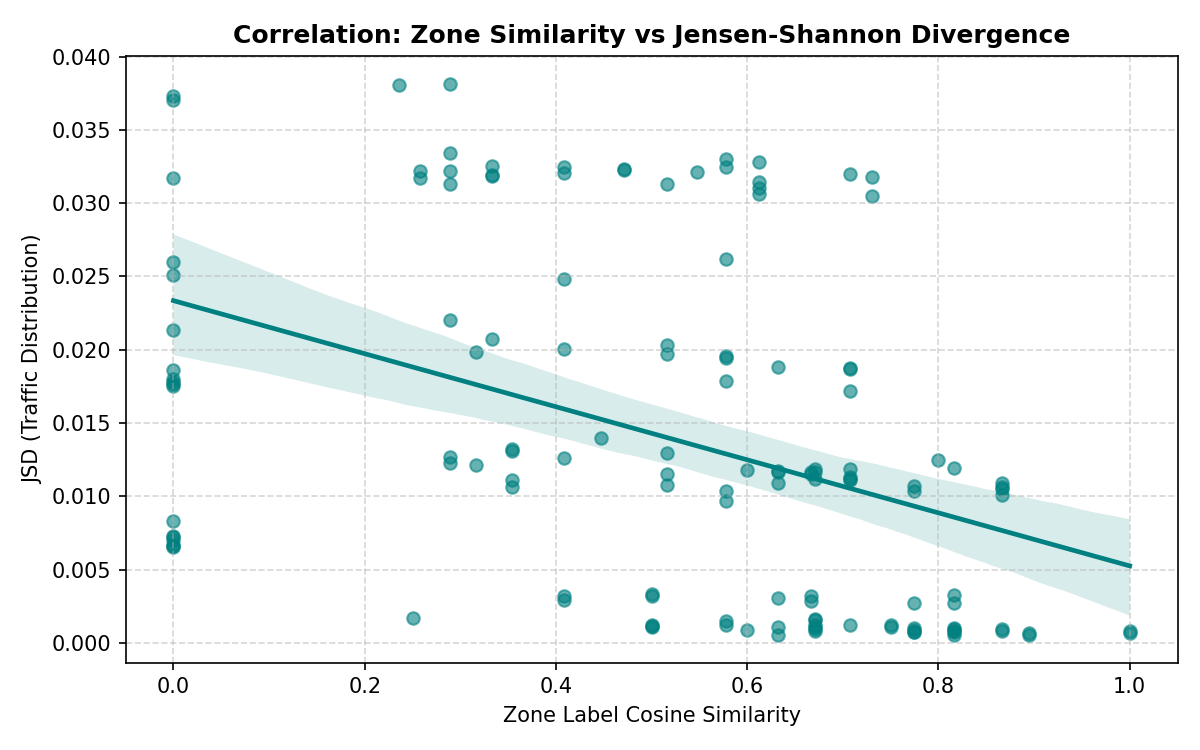
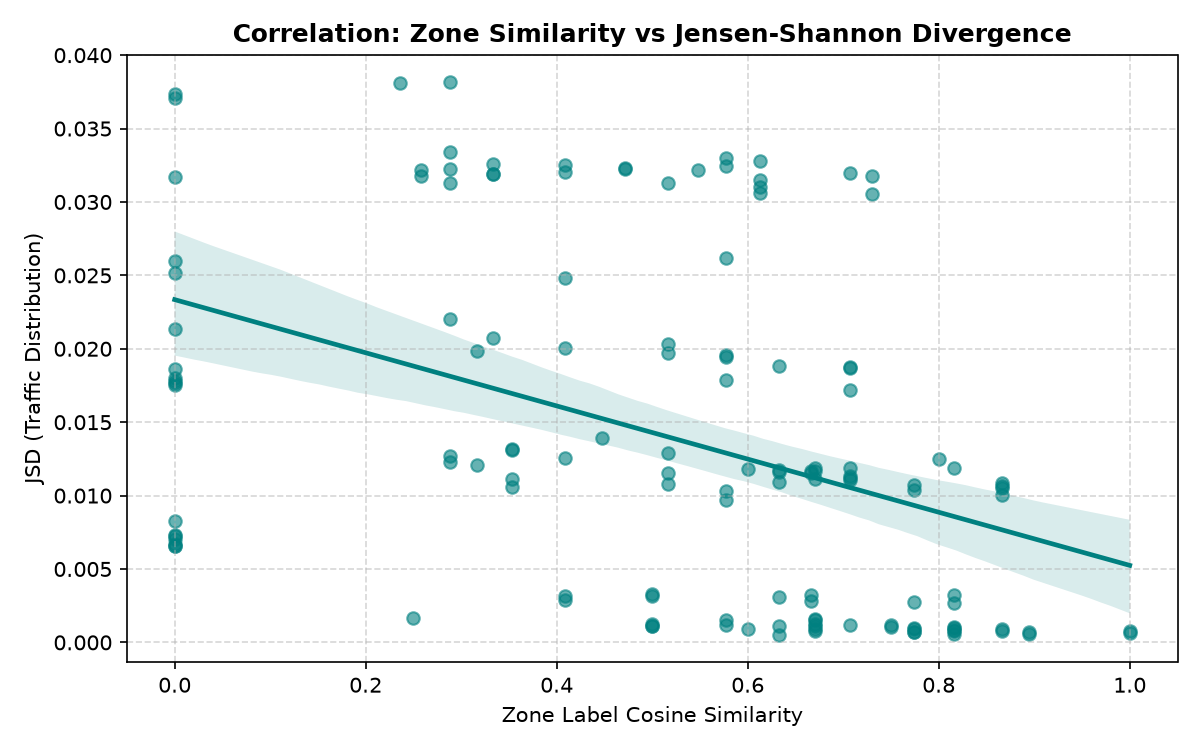
latest update

diff --git a/models/time_zone_aware_gnn.py b/models/time_zone_aware_gnn.py
@@ -114,18 +114,23 @@ class TimeZoneEmbedding(nn.Module):
     """
     Encode multi-hot zone vector Z[v] ∈ {0,1}^K → dense z̃[v] ∈ R^d_z
     Dùng nn.Embedding cho time (discrete).
+    Dùng cơ chế gating: z̃ = sigmoid(W_gate * t_emb) * MLP(Z)
+    để tránh representation collapse.
     """
 
     def __init__(self, num_zones: int, embed_dim: int, num_time_labels: int):
         super().__init__()
-        self.time_emb = nn.Embedding(num_time_labels, embed_dim)
-        fused_in = num_zones + embed_dim
-        self.net = nn.Sequential(
-            nn.Linear(fused_in, embed_dim * 2),
+        self.zone_mlp = nn.Sequential(
+            nn.Linear(num_zones, embed_dim * 2),
             nn.LayerNorm(embed_dim * 2),
             nn.ReLU(),
             nn.Linear(embed_dim * 2, embed_dim),
             nn.LayerNorm(embed_dim),
+        )
+        self.time_emb = nn.Embedding(num_time_labels, embed_dim)
+        self.gate_proj = nn.Sequential(
+            nn.Linear(embed_dim, embed_dim),
+            nn.Sigmoid()
         )
 
     def forward(self, Z: torch.Tensor, time_idx: torch.Tensor) -> torch.Tensor:
@@ -134,12 +139,10 @@ class TimeZoneEmbedding(nn.Module):
         time_idx: (B,)
         → (B, N, d_z)
         """
-        B = time_idx.size(0)
-        N = Z.size(0)
-        Z_batch = Z.unsqueeze(0).expand(B, N, -1)
-        t_emb = self.time_emb(time_idx).unsqueeze(1).expand(B, N, -1)
-        fused = torch.cat([Z_batch, t_emb], dim=-1)
-        return self.net(fused)
+        z_static = self.zone_mlp(Z)
+        t_emb = self.time_emb(time_idx)
+        gate = self.gate_proj(t_emb)
+        return gate.unsqueeze(1) * z_static.unsqueeze(0)
 
 
 # ══════════════════════════════════════════════
@@ -150,9 +153,8 @@ class SinusoidalZoneEmbedding(nn.Module):
     """
     Giống TimeZoneEmbedding nhưng dùng SeasonalTimeEncoder
     thay vì nn.Embedding → encode thời gian liên tục hơn.
-
-    Kỳ vọng: cosine similarity giữa các zone khác nhau thấp hơn
-    so với TimeZoneEmbedding vì time encoding phân biệt tốt hơn.
+    Dùng cơ chế gating: z̃ = sigmoid(W_gate * t_enc) * MLP(Z)
+    để tránh representation collapse.
     """
 
     def __init__(
@@ -163,14 +165,17 @@ class SinusoidalZoneEmbedding(nn.Module):
         d_model: int = 32,
     ):
         super().__init__()
-        self.time_encoder = SeasonalTimeEncoder(embed_dim, d_model)
-        fused_in = num_zones + embed_dim
-        self.net = nn.Sequential(
-            nn.Linear(fused_in, embed_dim * 2),
+        self.zone_mlp = nn.Sequential(
+            nn.Linear(num_zones, embed_dim * 2),
             nn.LayerNorm(embed_dim * 2),
-            nn.GELU(),  # GELU thay ReLU — smooth hơn
+            nn.GELU(),
             nn.Linear(embed_dim * 2, embed_dim),
             nn.LayerNorm(embed_dim),
+        )
+        self.time_encoder = SeasonalTimeEncoder(embed_dim, d_model)
+        self.gate_proj = nn.Sequential(
+            nn.Linear(embed_dim, embed_dim),
+            nn.Sigmoid()
         )
 
     def forward(self, Z: torch.Tensor, time_idx: torch.Tensor) -> torch.Tensor:
@@ -179,13 +184,10 @@ class SinusoidalZoneEmbedding(nn.Module):
         time_idx: (B,)
         → (B, N, d_z)
         """
-        B = time_idx.size(0)
-        N = Z.size(0)
-        Z_batch = Z.unsqueeze(0).expand(B, N, -1)  # (B, N, K)
-        t_enc = self.time_encoder(time_idx)  # (B, embed_dim)
-        t_batch = t_enc.unsqueeze(1).expand(B, N, -1)  # (B, N, embed_dim)
-        fused = torch.cat([Z_batch, t_batch], dim=-1)  # (B, N, K+embed_dim)
-        return self.net(fused)  # (B, N, embed_dim)
+        z_static = self.zone_mlp(Z)
+        t_enc = self.time_encoder(time_idx)
+        gate = self.gate_proj(t_enc)
+        return gate.unsqueeze(1) * z_static.unsqueeze(0)
 
 
 # ══════════════════════════════════════════════
@@ -333,11 +335,18 @@ class TimeZoneAwareAHGNN(nn.Module):
 
     def forward(self, X, Z, time_idx, A_static=None):
         z_embed = self.zone_emb(Z, time_idx)  # (B, N, d_z)
-        A = self.adj_module(z_embed, time_idx, A_static)
+        
+        use_zone_adj = getattr(self, "use_zone_adj", True)
+        use_zone_weight = getattr(self, "use_zone_weight", True)
+
+        z_embed_adj = z_embed if use_zone_adj else (z_embed * 0.0)
+        z_embed_conv = z_embed if use_zone_weight else (z_embed * 0.0)
+
+        A = self.adj_module(z_embed_adj, time_idx, A_static)
         E = self.adj_module.E
         H = X
         for conv in self.conv_layers:
-            H = conv(H, A, E, z_embed)
+            H = conv(H, A, E, z_embed_conv)
         return self.fc(H)  # (B, N, T_out)
 
 
@@ -406,11 +415,18 @@ class SinusoidalZoneAwareAHGNN(nn.Module):
 
     def forward(self, X, Z, time_idx, A_static=None):
         z_embed = self.zone_emb(Z, time_idx)  # (B, N, d_z)
-        A = self.adj_module(z_embed, time_idx, A_static)
+        
+        use_zone_adj = getattr(self, "use_zone_adj", True)
+        use_zone_weight = getattr(self, "use_zone_weight", True)
+
+        z_embed_adj = z_embed if use_zone_adj else (z_embed * 0.0)
+        z_embed_conv = z_embed if use_zone_weight else (z_embed * 0.0)
+
+        A = self.adj_module(z_embed_adj, time_idx, A_static)
         E = self.adj_module.E
         H = X
         for conv in self.conv_layers:
-            H = conv(H, A, E, z_embed)
+            H = conv(H, A, E, z_embed_conv)
         return self.fc(H)  # (B, N, T_out)
 
 

diff --git a/scripts/train.py b/scripts/train.py
@@ -167,7 +167,7 @@ def build_model(
 
     # ── Tân: Time-conditioned discrete embedding ──
     if variant_name == "zone_full_tc":
-        return TimeZoneAwareAHGNN(
+        model = TimeZoneAwareAHGNN(
             num_nodes=N,
             num_zones=K,
             in_channels=in_ch,
@@ -178,10 +178,13 @@ def build_model(
             num_time_labels=4,
             num_layers=2,
         )
+        model.use_zone_weight = use_zone_weight
+        model.use_zone_adj = use_zone_adj
+        return model
 
     # ── Bảo: Sinusoidal time encoder ──
     if variant_name == "zone_full_sinc":
-        return SinusoidalZoneAwareAHGNN(
+        model = SinusoidalZoneAwareAHGNN(
             num_nodes=N,
             num_zones=K,
             in_channels=in_ch,
@@ -193,6 +196,9 @@ def build_model(
             num_layers=2,
             d_model=32,
         )
+        model.use_zone_weight = use_zone_weight
+        model.use_zone_adj = use_zone_adj
+        return model
 
     # ── Zone-Aware ablation variants (zone_concat, zone_weight, zone_full) ──
     model = ZoneAwareAHGNN(
@@ -218,7 +224,20 @@ def build_model(
 # ──────────────────────────────────────────────
 # MAIN
 # ──────────────────────────────────────────────
+import random
+
+def set_seed(seed=42):
+    random.seed(seed)
+    np.random.seed(seed)
+    torch.manual_seed(seed)
+    if torch.cuda.is_available():
+        torch.cuda.manual_seed(seed)
+        torch.cuda.manual_seed_all(seed)
+        torch.backends.cudnn.deterministic = True
+        torch.backends.cudnn.benchmark = False
+
 def run_experiment(variant_name, meta, dataset_dict, ablation_cfg):
+    set_seed(42)
     use_zone_emb, use_zone_weight, use_zone_adj = ablation_cfg
 
     print(f"\n{'='*55}")

diff --git a/models/zone_aware_gnn.py b/models/zone_aware_gnn.py
@@ -233,8 +233,15 @@ class ZoneAwareAHGNN(nn.Module):
         # 1. Zone embedding (static per node)
         z_embed = self.zone_emb(Z)                     # (N, d_z)
 
+        # Check configuration flags (default to True)
+        use_zone_adj = getattr(self, "use_zone_adj", True)
+        use_zone_weight = getattr(self, "use_zone_weight", True)
+
+        z_embed_adj = z_embed if use_zone_adj else (z_embed * 0.0)
+        z_embed_conv = z_embed if use_zone_weight else (z_embed * 0.0)
+
         # 2. Dynamic zone-aware adjacency
-        A = self.adj_module(z_embed, time_idx, A_static)  # (B, N, N)
+        A = self.adj_module(z_embed_adj, time_idx, A_static)  # (B, N, N)
 
         # 3. Get node embedding from adj_module
         E = self.adj_module.E                          # (N, d_e)
@@ -242,7 +249,7 @@ class ZoneAwareAHGNN(nn.Module):
         # 4. Zone-modulated graph convolution
         H = X
         for conv in self.conv_layers:
-            H = conv(H, A, E, z_embed)                 # (B, N, hidden)
+            H = conv(H, A, E, z_embed_conv)                 # (B, N, hidden)
 
         # 5. Output prediction
         out = self.fc(H)                               # (B, N, T_out)

diff --git a/week2_plan.md b/week2_plan.md
@@ -1,0 +1,178 @@
+# Kế Hoạch Tuần 2 — Team 4 Người (21/07 – 27/07/2026)
+
+---
+
+## Tổng kết Tuần 1: Những gì đã có
+
+| Hạng mục | File/Kết quả | Trạng thái |
+|---|---|---|
+| Dữ liệu TomTom | `tomtom_traffic.csv` (~24 MB, ≈7 ngày) | ✅ |
+| Nhãn vùng OSM | `zone_labels.csv` (17 nút × 8 zone types) | ✅ |
+| Graph Dataset | `graph_dataset.pt` (658 mẫu, F=4 features) | ✅ |
+| 3 Baselines | `models/baselines.py` (LSTM, GCN-GRU, STGCN) — code xong | ✅ |
+| Ablation Study | 4 variants đã train, zone_full MAE=0.0795 | ✅ |
+| EDA / JSD | Heatmap + Correlation Plot đã sinh | ✅ |
+| Collect zones generic | `scripts/collect_zones.py` — tổng quát cho mọi thành phố | ✅ |
+
+**Kết quả ablation đã có:**
+
+| Variant | MAE | RMSE | MAPE% |
+|---|---|---|---|
+| baseline_ahgnn | 0.2102 | 0.2955 | 15.83 |
+| zone_concat | 0.0963 | 0.1536 | 7.11 |
+| zone_weight | 0.1057 | 0.1613 | 7.84 |
+| **zone_full (Proposed)** | **0.0795** | **0.1419** | **6.14** |
+
+---
+
+## Mục tiêu Tuần 2
+
+> **Tuần 2 = Experiments hoàn chỉnh + Figures cho paper + Bắt đầu viết**
+
+1. Train và đánh giá 3 baselines trên dữ liệu thực → bảng so sánh hoàn chỉnh
+2. Triển khai cải tiến Time-Conditioned Zone Embedding (đóng góp khoa học #2)
+3. Sinh toàn bộ Figures chất lượng xuất bản cho paper
+4. Viết Sections 1 & 2 (Introduction + Related Work)
+
+---
+
+## Người A (Lead — Model & Training)
+
+### Nhiệm vụ A.1: Chạy 3 Baselines trên dữ liệu thực
+- Chạy `python scripts/train.py --baselines` → sinh `baseline_results.csv`
+- Xác nhận kết quả hợp lệ (không NaN/Inf)
+- So sánh MAE của 3 baselines vs `zone_full` → xác nhận proposed model tốt hơn tất cả
+
+### Nhiệm vụ A.2: Triển khai Time-Conditioned Zone Embedding
+- Sửa `ZoneEmbedding` trong `models/zone_aware_gnn.py` thành `TimeConditionedZoneEmbedding`
+- Công thức: $\tilde{z}^{(v,t)} = g_t \odot \text{MLP}(z^{(v)})$ — thêm cổng thời gian
+- Cập nhật pipeline: `ZoneAwareAdjacency` và `ZoneModulatedGraphConv` phải nhận z_embed kích thước `(B, N, d_z)` thay vì `(N, d_z)`
+- Tạo variant mới `zone_full_tc` trong `train.py`
+- Train và so sánh: `zone_full_tc` vs `zone_full` → kỳ vọng MAE giảm thêm
+
+### Nhiệm vụ A.3: Hyperparameter Tuning (nếu còn thời gian)
+- Grid search nhỏ trên các tham số: `zone_embed_dim = [8, 16, 32]`, `alpha = [0.3, 0.5, 0.7]`
+- Chọn best config dựa trên validation MAE
+
+### Output mong muốn
+- [ ] `data/results/baseline_results.csv` — 3 dòng kết quả
+- [ ] `models/zone_aware_gnn.py` — class `TimeConditionedZoneEmbedding` mới
+- [ ] `data/results/all_results.csv` — bảng tổng hợp tất cả models (baselines + ablation + TC variant)
+- [ ] Model checkpoint `zone_full_tc_best.pt`
+
+---
+
+## Người B (Deep Learning Engineer)
+
+### Nhiệm vụ B.1: Hỗ trợ A triển khai Time-Conditioned Zone Embedding
+- Review code của A, test forward pass với dummy input
+- Đảm bảo backward pass không bị gradient explosion
+- Test interface tương thích: `zone_full_tc` phải chạy được với cùng `train.py`
+
+### Nhiệm vụ B.2: Triển khai Sinusoidal Time Encoding (cải tiến #2)
+- Thay thế 4 nhãn thời gian rời rạc bằng mã hóa Sin/Cos liên tục
+- Cần sửa `build_graph.py` để lưu thêm trường `hour` và `day_of_week` (float) thay vì chỉ 4 nhãn
+- Tạo class `SinusoidalTimeEncoder` → test forward pass
+- Tạo variant `zone_full_sine` trong `train.py`
+
+### Nhiệm vụ B.3: Viết Unit Tests cho tất cả models
+- Tạo `tests/test_models.py` kiểm tra:
+  - Forward pass shape cho tất cả 7 variants (3 baselines + 4 ablation)
+  - Gradient flow (backward pass không NaN)
+  - Parameter count nhất quán
+
+### Output mong muốn
+- [ ] Class `SinusoidalTimeEncoder` trong `models/zone_aware_gnn.py`
+- [ ] `build_graph.py` cập nhật — lưu thêm `hour`, `day_of_week`
+- [ ] `tests/test_models.py` — unit tests cho tất cả variants
+- [ ] (Bonus) Kết quả `zone_full_sine` nếu kịp train
+
+---
+
+## Người C (Data & GIS Engineer)
+
+### Nhiệm vụ C.1: Zone-Stratified Error Analysis (QUAN TRỌNG NHẤT)
+- Tạo `scripts/zone_stratified_analysis.py`
+- Load kết quả từ các model đã train (best.pt), chạy evaluate trên test set
+- Tính MAE riêng cho từng nhóm TAZ theo số lượng zone (1, 2, 3, 4, 5, 6)
+- **Sinh Figure 3 — Main Result:** Grouped Bar Chart (Baseline vs Proposed, theo zone_count)
+- Kỳ vọng: improvement tăng dần khi zone_count tăng → chứng minh zone-awareness hiệu quả
+
+### Nhiệm vụ C.2: Nâng cấp tất cả Figures lên chất lượng xuất bản
+- **Figure 1a** — JSD Heatmap: font serif, DPI≥300, rút gọn tên TAZ, thêm colorbar label
+- **Figure 1b** — Correlation JSD vs Zone Similarity: thêm Pearson r, p-value, phân nhóm màu
+- **Figure 2** — Zone Entropy Map: bản đồ HCM tô màu theo entropy ($H = -\sum p_k \log_2 p_k$)
+- **Figure 3** — Zone-Stratified MAE (Main Result): grouped bar chart
+- Tất cả lưu cả `.png` (draft) và `.pdf` (xuất bản) trong `data/results/`
+
+### Nhiệm vụ C.3: Viết Dataset Description
+- Viết mô tả chi tiết 3 nguồn dữ liệu (OSRM, TomTom, OSM) cho Section 5.1 của paper
+- Bao gồm: số lượng mẫu, khoảng thời gian thu thập, tần suất, 17 node names, 8 zone types
+- Giao cho Người D tích hợp vào paper
+
+### Output mong muốn
+- [ ] `scripts/zone_stratified_analysis.py`
+- [ ] `data/results/fig1a_jsd_heatmap.pdf`
+- [ ] `data/results/fig1b_jsd_correlation.pdf`
+- [ ] `data/results/fig2_zone_entropy_map.pdf`
+- [ ] `data/results/fig3_zone_stratified.pdf` ← **Main Result**
+- [ ] File text mô tả dataset (giao cho D)
+
+---
+
+## Người D (Paper Writing & Literature)
+
+### Nhiệm vụ D.1: Viết Section 1 — Introduction (1 trang)
+- **Motivation:** Giao thông đô thị có tính Non-IID — phân phối lưu lượng tại các vùng khác nhau rất khác nhau do thành phần chức năng đất đai
+- **Gap:** Các mô hình GNN hiện tại (DCRNN, STGCN, Graph WaveNet) chỉ dùng ma trận kề địa lý → bỏ qua ngữ nghĩa vùng chức năng
+- **Contribution (3 gạch đầu dòng):**
+  1. Đề xuất Zone-Aware AH-GNN với zone embedding và zone-modulated convolution
+  2. Chứng minh thực nghiệm rằng zone composition giải thích được tính Non-IID
+  3. Đánh giá trên dữ liệu thực HCM với 17 TAZ và 8 loại vùng chức năng
+
+### Nhiệm vụ D.2: Viết Section 2 — Related Work (1.5 trang)
+- **2.1 Traffic Flow Prediction:** DCRNN, STGCN, Graph WaveNet, ASTGNN, PDFormer
+- **2.2 Heterogeneous GNN:** HAN, HGT — kết nối với việc dùng zone heterogeneity
+- **2.3 Urban Zone / Land Use in Traffic:** Urban2Vec, STDN — gap là chưa ai dùng multi-label zone trong GNN adjacency
+
+### Nhiệm vụ D.3: Đọc và tóm tắt 5-7 papers cần cite
+Danh sách đề xuất:
+1. **DCRNN** (Li et al., 2018) — baseline diffusion conv
+2. **STGCN** (Yu et al., 2018) — baseline sandwich architecture
+3. **Graph WaveNet** (Wu et al., 2019) — adaptive adjacency (so sánh trực tiếp)
+4. **ASTGNN** (Guo et al., 2021) — attention-based
+5. **HAN** (Wang et al., 2019) — heterogeneous attention network
+6. **Urban2Vec** (Wang et al., 2020) — zone embedding (liên quan trực tiếp)
+7. **PDFormer** (Jiang et al., 2023) — state-of-the-art gần nhất
+
+### Output mong muốn
+- [ ] Section 1 draft trong `paper/draft_vi.tex` hoặc file riêng
+- [ ] Section 2 draft 
+- [ ] Bảng tóm tắt related work (model, year, adjacency type, zone-aware?)
+- [ ] Danh sách references BibTeX
+
+---
+
+## Lịch trình theo ngày
+
+| Ngày | Người A | Người B | Người C | Người D |
+|---|---|---|---|---|
+| **T2 21/07** | Chạy 3 baselines | Review baselines code | Zone-Stratified Analysis | Đọc 3 papers đầu |
+| **T3 22/07** | Phân tích kết quả baseline | Thiết kế Sinusoidal Enc | Cải thiện JSD Heatmap | Đọc 4 papers còn lại |
+| **T4 23/07** | Code TC Zone Emb | Code Sinusoidal Enc | Vẽ Zone Entropy Map | Viết Section 1 draft |
+| **T5 24/07** | Tích hợp TC vào pipeline | Test + Unit tests | Vẽ Figure 3 (Main Result) | Viết Section 2 draft |
+| **T6 25/07** | Train zone_full_tc | Sửa build_graph.py | Cải thiện Correlation Plot | Hoàn thiện Sections 1&2 |
+| **T7 26/07** | So sánh kết quả | (Bonus) Train sine variant | Viết dataset description | Review + BibTeX |
+| **CN 27/07** | **Sync nhóm: review tổng thể, plan tuần 3** ||||
+
+---
+
+## Câu hỏi cần thảo luận trong buổi sync
+
+> **Q1:** Kết quả 3 baselines so với zone_full như thế nào? LSTM có tệ hơn rõ rệt không? (Nếu LSTM gần bằng GCN → cần xem lại dữ liệu)
+
+> **Q2:** Time-Conditioned Zone Embedding có cải thiện MAE so với zone_full gốc không? Nếu có → đưa vào paper như đóng góp #2. Nếu không → giữ kiến trúc gốc.
+
+> **Q3:** Figure 3 (Zone-Stratified) có cho thấy improvement tăng theo zone_count không? Nếu không → cần điều chỉnh narrative của paper.
+
+> **Q4:** Nộp venue nào? Cần quyết định trước tuần 3 để định dạng paper đúng template.
